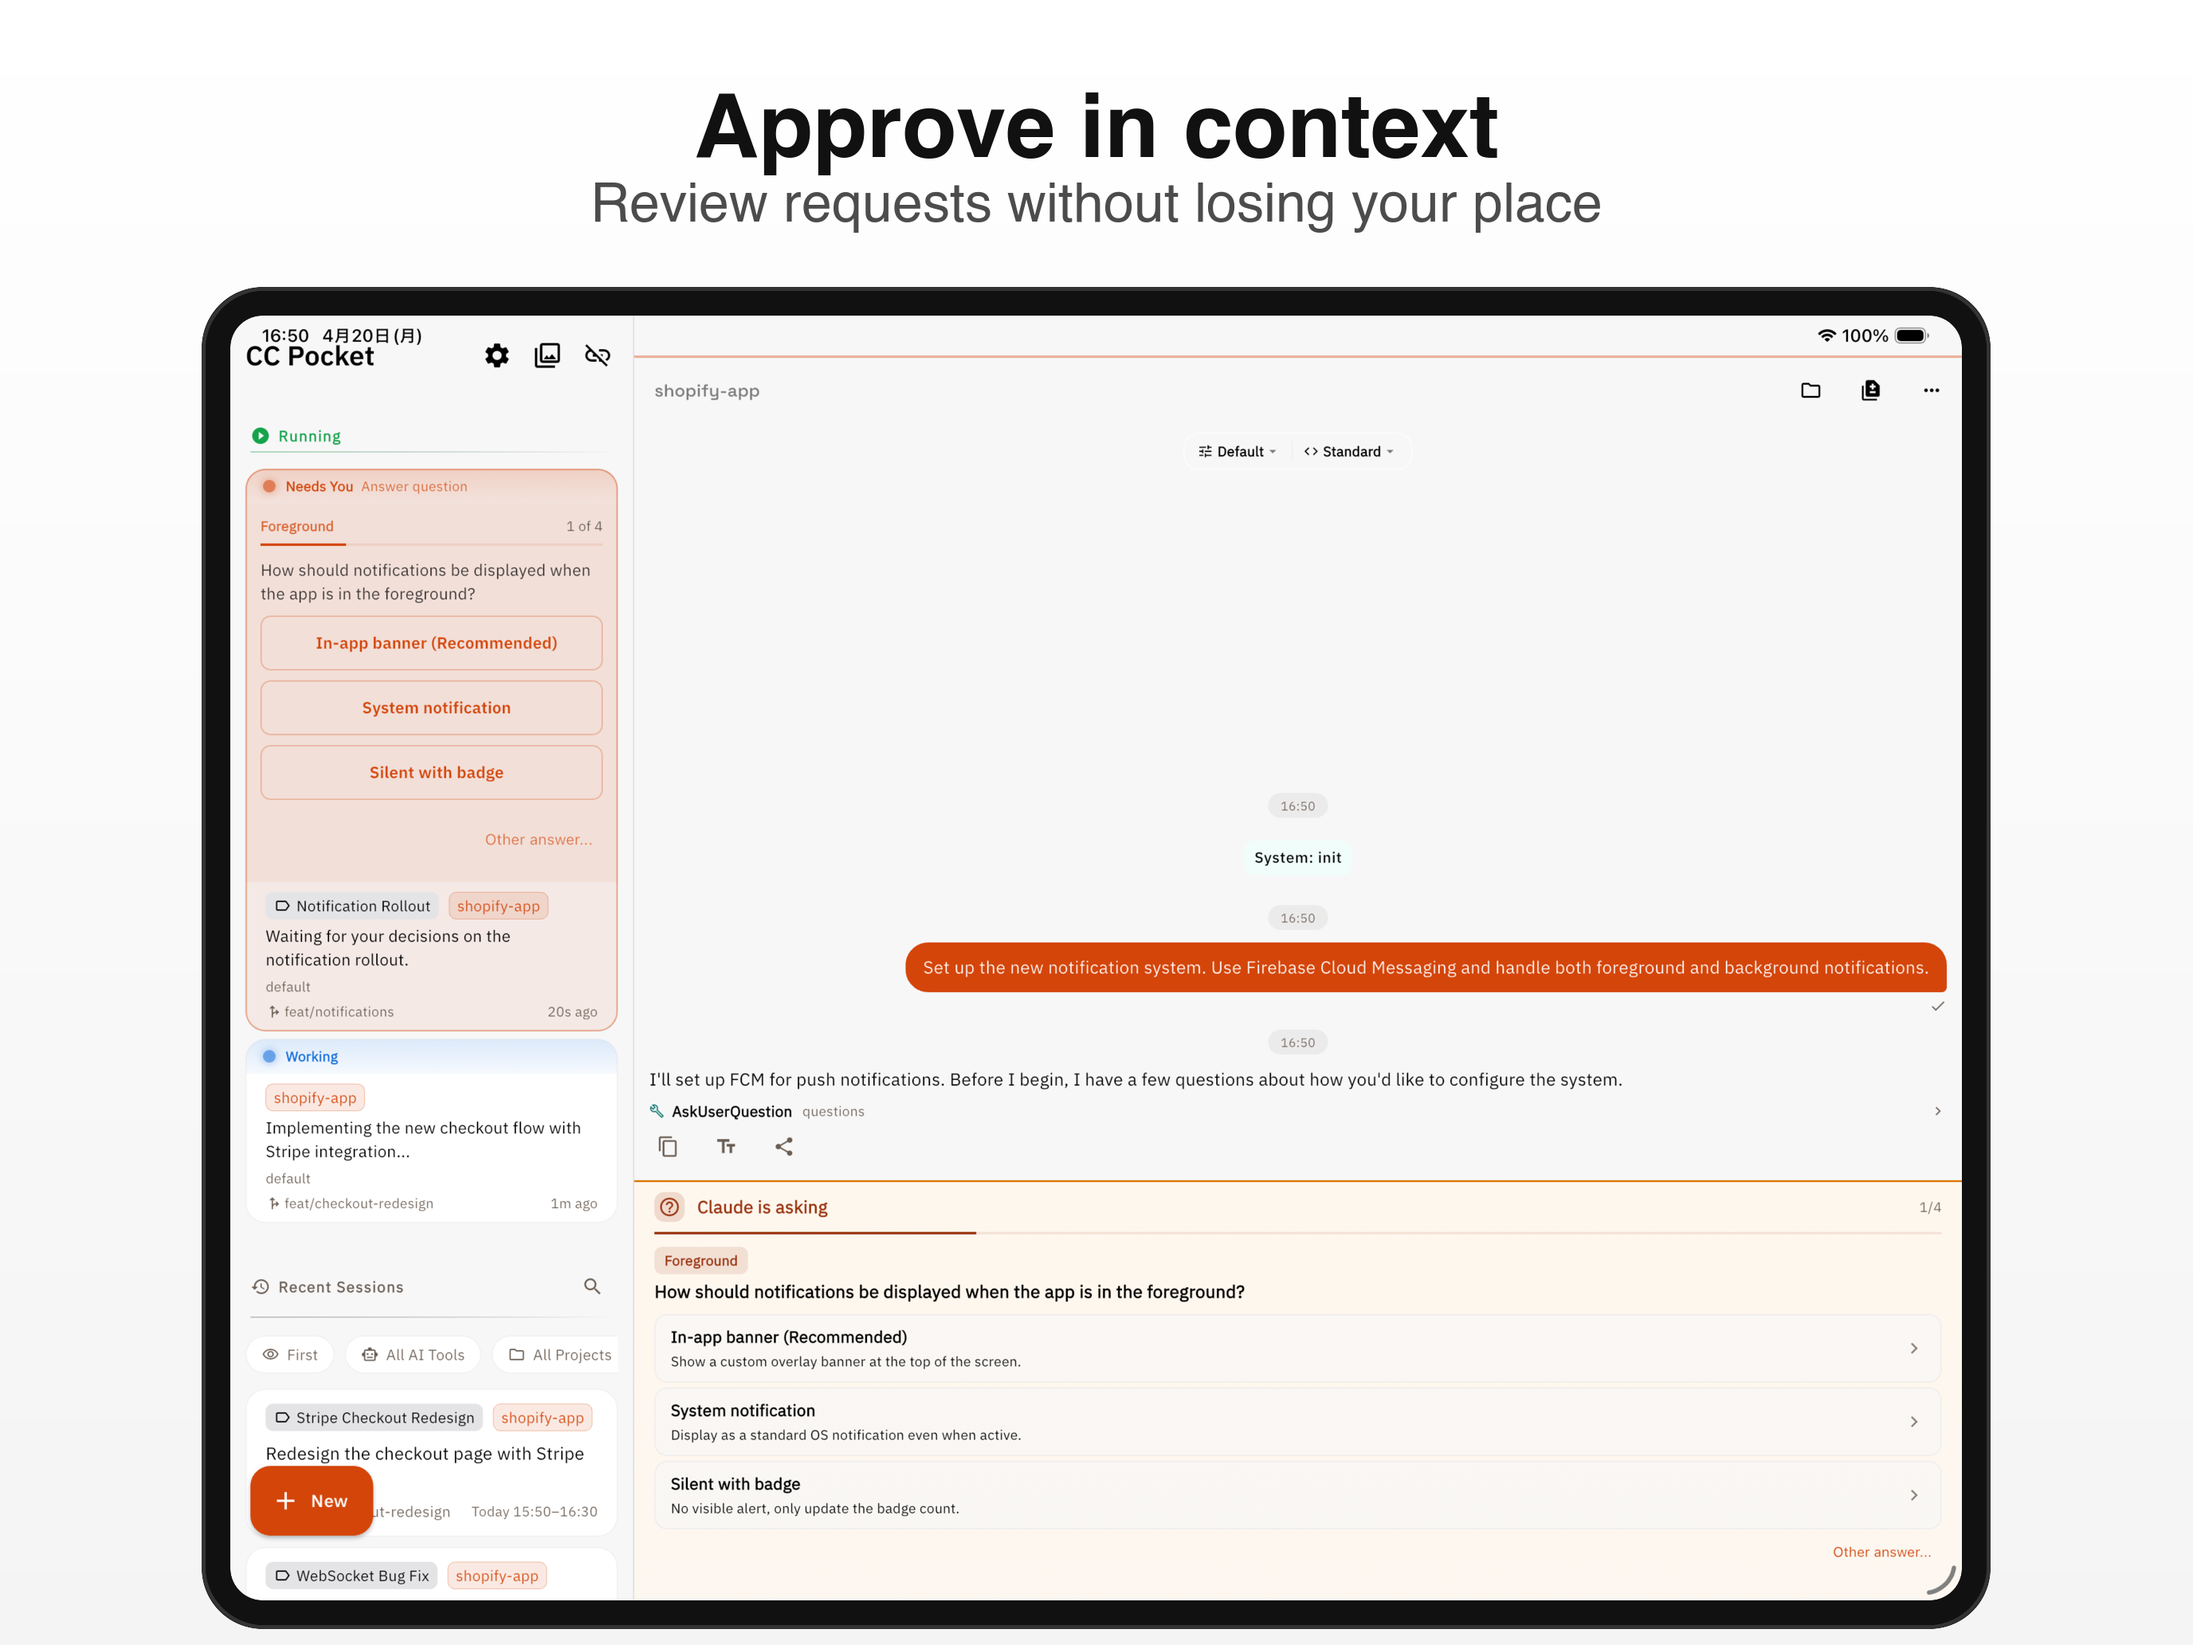
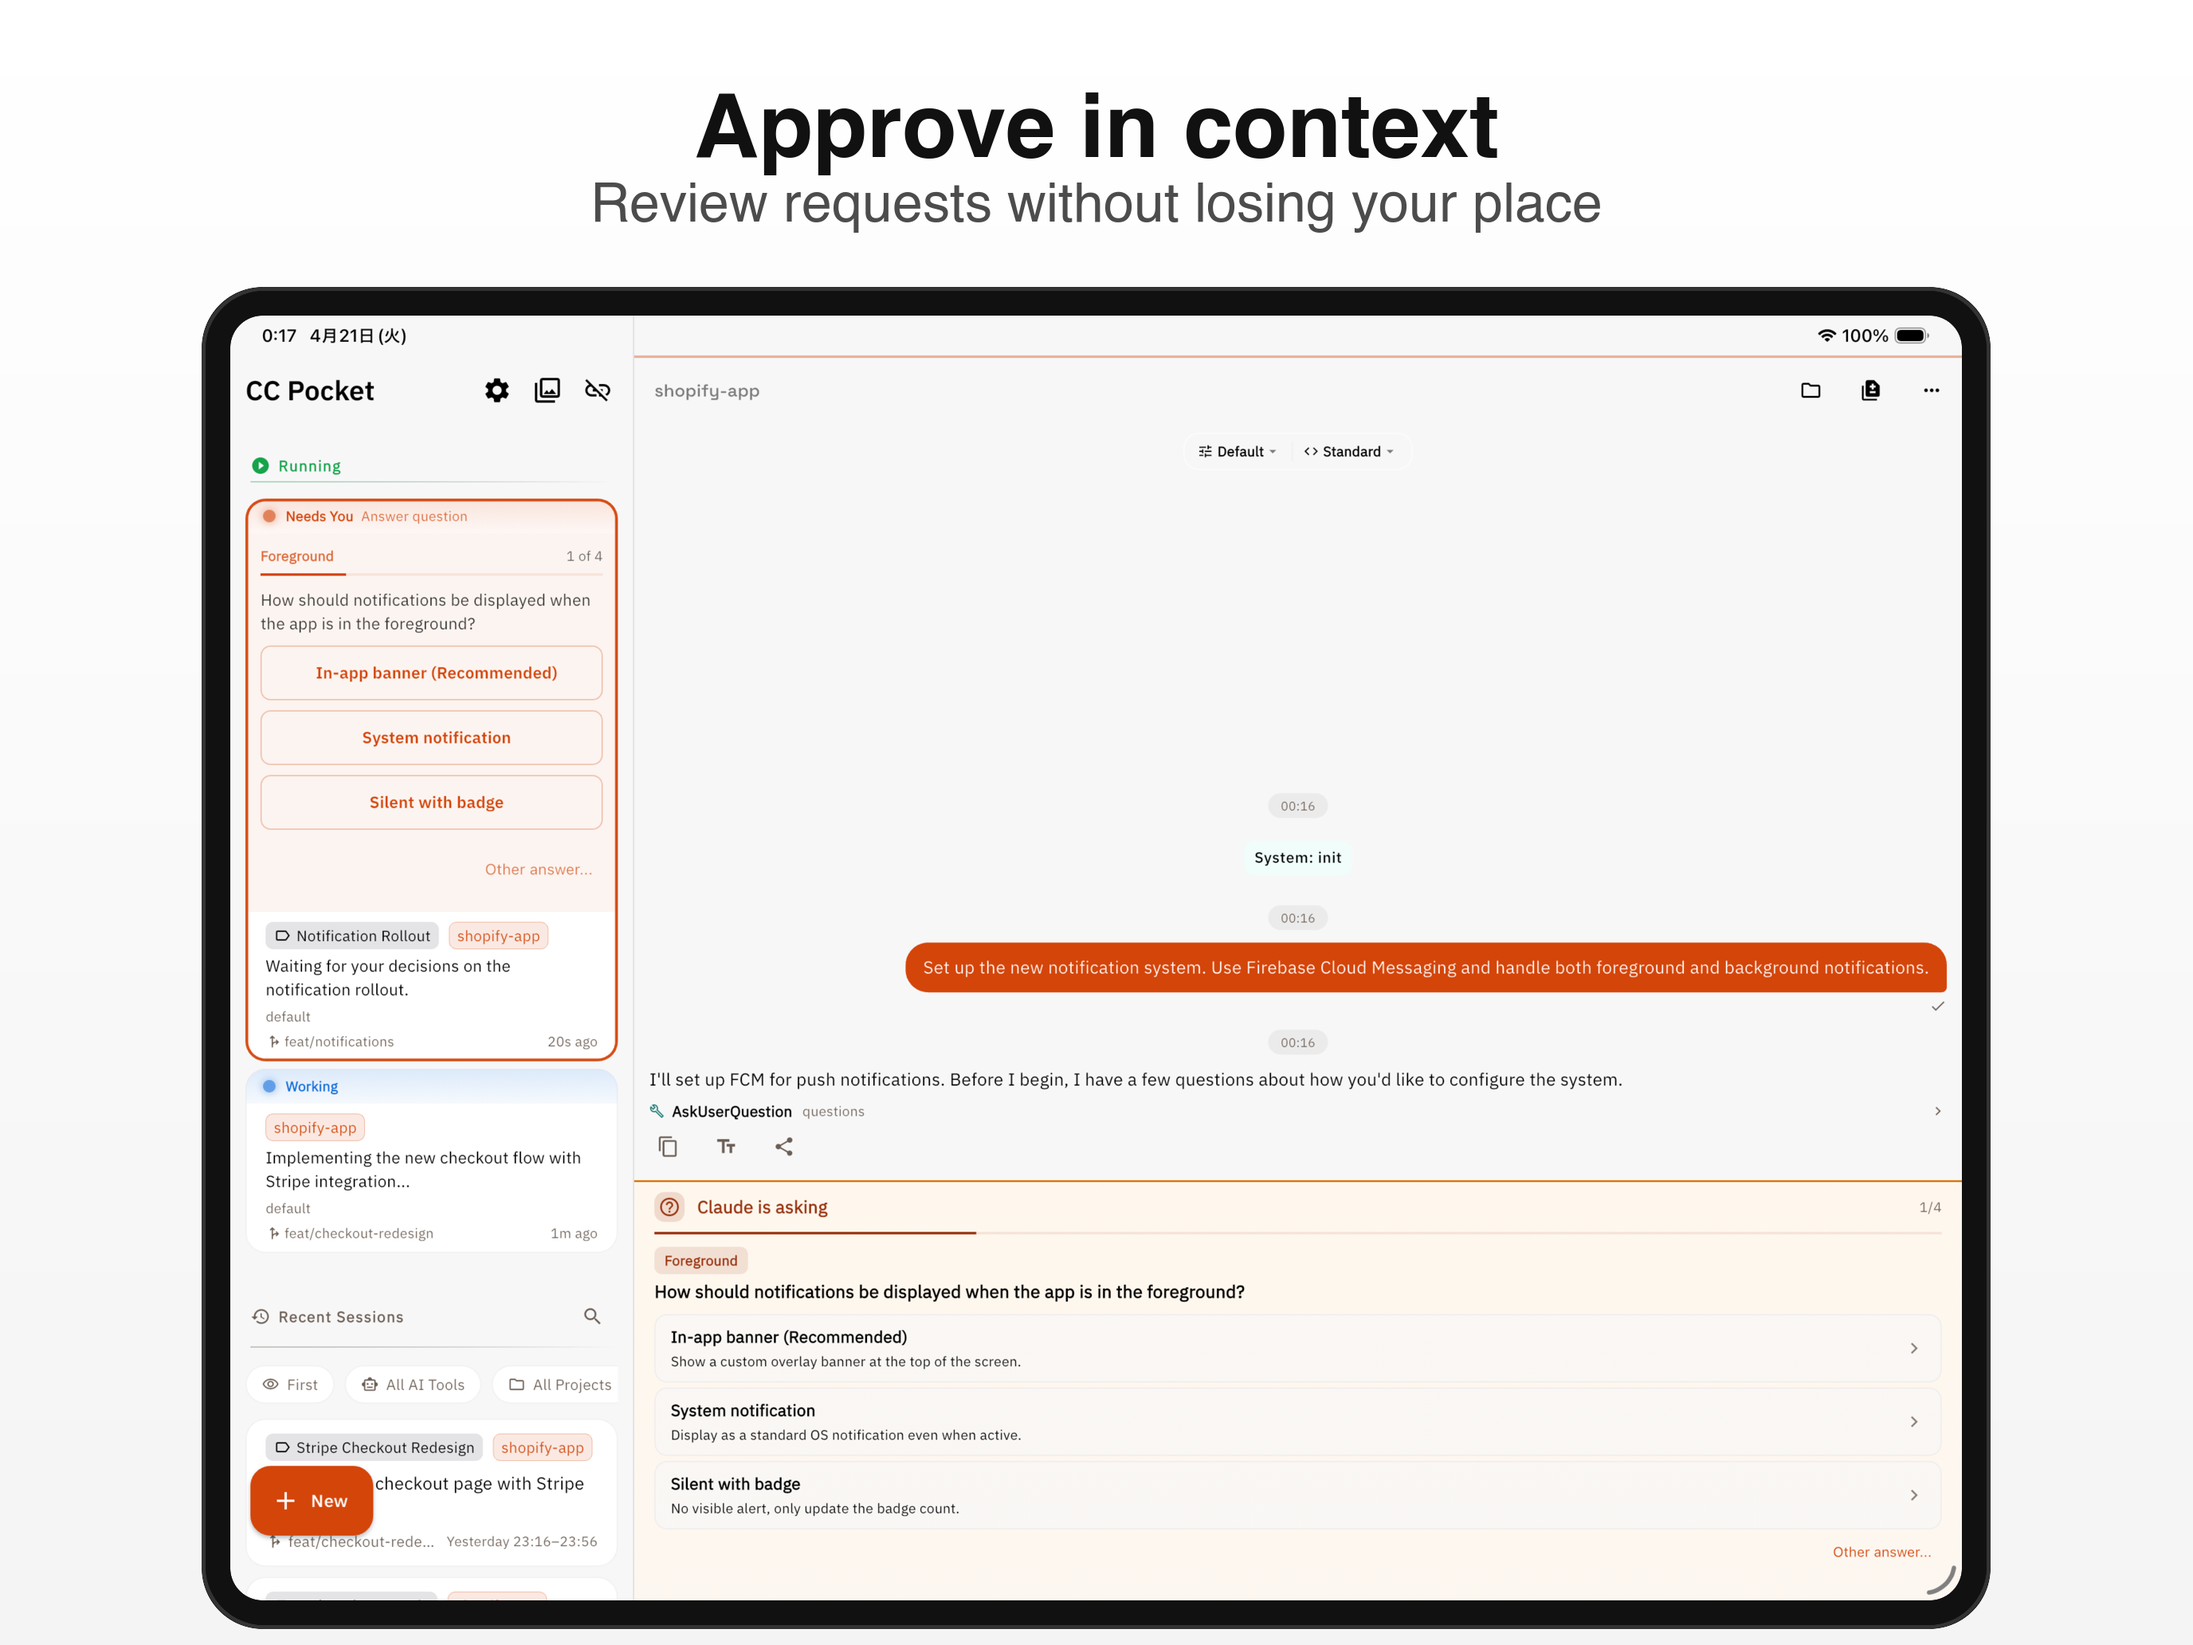
chore(store): refresh ipad screenshots

diff --git a/.claude/skills/update-store/scripts/sim-tap.swift b/.claude/skills/update-store/scripts/sim-tap.swift
@@ -299,6 +299,7 @@ func findElement(named name: String) -> ElementInfo? {
 }
 
 func tap(name: String, quiet: Bool = false) -> Bool {
+    _ = activateSimulator()
     guard let info = findElement(named: name) else {
         if !quiet {
             fputs("Error: Element \"\(name)\" not found.\n", stderr)
@@ -330,6 +331,22 @@ func tap(name: String, quiet: Bool = false) -> Bool {
     usleep(100_000)
     mouseUp?.post(tap: .cghidEventTap)
     print("OK (CGEvent click)")
+    return true
+}
+
+func pressKeyCode(_ keyCode: CGKeyCode, modifiers: CGEventFlags = []) -> Bool {
+    guard activateSimulator() else { return false }
+    guard let keyDown = CGEvent(keyboardEventSource: nil, virtualKey: keyCode, keyDown: true),
+          let keyUp = CGEvent(keyboardEventSource: nil, virtualKey: keyCode, keyDown: false) else {
+        fputs("Error: Failed to create keyboard events.\n", stderr)
+        return false
+    }
+    keyDown.flags = modifiers
+    keyUp.flags = modifiers
+    keyDown.post(tap: .cghidEventTap)
+    usleep(80_000)
+    keyUp.post(tap: .cghidEventTap)
+    usleep(120_000)
     return true
 }
 
@@ -391,6 +408,7 @@ func prepareStorePermissions(bundleId: String = storeScreenshotBundleId) -> Int 
 
 /// Clicks a point in the simulator by mapping iPad/iPhone coordinates to screen coordinates.
 func clickInSimulator(simX: CGFloat, simY: CGFloat, deviceWidth: CGFloat, deviceHeight: CGFloat) -> Bool {
+    guard activateSimulator() else { return false }
     guard let winBounds = findSimulatorWindowBounds() else {
         fputs("Error: Could not find Simulator window.\n", stderr)
         return false
@@ -411,6 +429,17 @@ func clickInSimulator(simX: CGFloat, simY: CGFloat, deviceWidth: CGFloat, device
     usleep(100_000)
     mouseUp.post(tap: .cghidEventTap)
     return true
+}
+
+func deviceMetrics(for device: String) -> (width: CGFloat, height: CGFloat)? {
+    switch device.lowercased() {
+    case "ipad":
+        return (2752, 2064)
+    case "iphone":
+        return (1206, 2622)
+    default:
+        return nil
+    }
 }
 
 /// Dismisses native iOS dialogs by clicking common button positions.
@@ -506,6 +535,89 @@ func dismissIPhoneDialogs() -> Int {
     )
 }
 
+@discardableResult
+func tapAt(device: String, x: CGFloat, y: CGFloat) -> Bool {
+    guard let metrics = deviceMetrics(for: device) else {
+        fputs("Error: Unknown device \"\(device)\". Use 'iphone' or 'ipad'.\n", stderr)
+        return false
+    }
+    let ok = clickInSimulator(
+        simX: x,
+        simY: y,
+        deviceWidth: metrics.width,
+        deviceHeight: metrics.height
+    )
+    if ok {
+        print("Tapped \(device) simulator at (\(Int(x)), \(Int(y)))")
+    }
+    return ok
+}
+
+func dismissSpeechDialog(device: String) -> Bool {
+    let normalized = device.lowercased()
+    guard normalized == "ipad" || normalized == "iphone" else {
+        fputs("Error: Unknown device \"\(device)\". Use 'iphone' or 'ipad'.\n", stderr)
+        return false
+    }
+
+    let dismissLabels = [
+        "許可しない",
+        "Don't Allow",
+        "今はしない",
+        "Not Now",
+        "後で",
+        "Later",
+    ]
+    for label in dismissLabels {
+        if tap(name: label, quiet: true) {
+            print("Dismissed speech dialog via AX label \"\(label)\"")
+            return true
+        }
+    }
+
+    let coordinateCandidates: [(CGFloat, CGFloat)] = switch normalized {
+    case "ipad": [
+        (1120, 1180),
+        (1092, 1180),
+        (980, 1180),
+    ]
+    case "iphone": [
+        (420, 1590),
+        (350, 1590),
+    ]
+    default: []
+    }
+    for (x, y) in coordinateCandidates {
+        if tapAt(device: normalized, x: x, y: y) {
+            Thread.sleep(forTimeInterval: 0.6)
+            print("Dismissed speech dialog via coordinate fallback at (\(Int(x)), \(Int(y)))")
+            return true
+        }
+    }
+
+    let keyboardPlans: [[CGKeyCode]] = [
+        [123, 49],      // left, space
+        [48, 49],       // tab, space
+        [123, 123, 49], // left twice, space
+    ]
+    for plan in keyboardPlans {
+        guard activateSimulator() else { return false }
+        for keyCode in plan {
+            _ = pressKeyCode(keyCode)
+        }
+        Thread.sleep(forTimeInterval: 0.6)
+        for label in dismissLabels {
+            if tap(name: label, quiet: true) {
+                print("Dismissed speech dialog after keyboard fallback")
+                return true
+            }
+        }
+    }
+
+    fputs("Error: Failed to dismiss speech dialog on \(device).\n", stderr)
+    return false
+}
+
 func prepareStoreCapture(device: String) -> Bool {
     switch device.lowercased() {
     case "ipad":
@@ -544,9 +656,12 @@ guard args.count >= 2 else {
       swift \(args[0]) describe                 List all accessible elements
       swift \(args[0]) wait <label> [sec]       Wait for element then tap (default 10s)
       swift \(args[0]) rotate <left|right>      Rotate Simulator via the Device menu
+      swift \(args[0]) tap-at <device> <x> <y>  Tap raw simulator coordinates (iphone|ipad)
       swift \(args[0]) capture-store <device> <path>
                                                Capture a screenshot and normalize orientation
       swift \(args[0]) dismiss-dialogs <device> Dismiss native dialogs (iphone|ipad)
+      swift \(args[0]) dismiss-speech-dialog <device>
+                                               Dismiss the speech/microphone dialog (iphone|ipad)
       swift \(args[0]) prepare-store <device>   Rotate/dismiss dialogs for store capture
 
     """, stderr)
@@ -575,6 +690,16 @@ case "rotate":
         exit(2)
     }
     exit(rotateSimulator(direction: args[2]) ? 0 : 1)
+case "tap-at":
+    guard args.count >= 5 else {
+        fputs("Usage: tap-at <iphone|ipad> <x> <y>\n", stderr)
+        exit(2)
+    }
+    guard let x = Double(args[3]), let y = Double(args[4]) else {
+        fputs("Error: x and y must be numeric.\n", stderr)
+        exit(2)
+    }
+    exit(tapAt(device: args[2], x: CGFloat(x), y: CGFloat(y)) ? 0 : 1)
 case "capture-store":
     guard args.count >= 4 else {
         fputs("Usage: capture-store <iphone|ipad> <path>\n", stderr)
@@ -602,6 +727,12 @@ case "dismiss-dialogs":
     } else {
         print("No dialogs found on \(device)")
     }
+case "dismiss-speech-dialog":
+    guard args.count >= 3 else {
+        fputs("Usage: dismiss-speech-dialog <iphone|ipad>\n", stderr)
+        exit(2)
+    }
+    exit(dismissSpeechDialog(device: args[2]) ? 0 : 1)
 case "prepare-store":
     guard args.count >= 3 else {
         fputs("Usage: prepare-store <iphone|ipad>\n", stderr)

diff --git a/apps/mobile/lib/services/store_screenshot_extension.dart b/apps/mobile/lib/services/store_screenshot_extension.dart
@@ -1124,51 +1124,54 @@ class _StoreWorkspaceListPane extends StatelessWidget {
   Widget build(BuildContext context) {
     return Scaffold(
       backgroundColor: Theme.of(context).colorScheme.surface,
-      body: Column(
-        children: [
-          SessionListPaneHeader(
-            onTitleTap: () {},
-            onOpenSettings: () {},
-            onOpenGallery: () {},
-            onDisconnect: () {},
-            onTogglePaneVisibility: null,
-          ),
-          Expanded(
-            child: HomeContent(
-              connectionState: BridgeConnectionState.connected,
-              sessions: runningSessions,
-              recentSessions: recentSessions,
-              accumulatedProjectPaths: projectPaths,
-              searchQuery: '',
-              isLoadingMore: false,
-              isInitialLoading: false,
-              hasMoreSessions: false,
-              currentProjectFilter: null,
-              onNewSession: () {},
-              onTapRunning:
-                  (
-                    _, {
-                    projectPath,
-                    gitBranch,
-                    worktreePath,
-                    provider,
-                    permissionMode,
-                    sandboxMode,
-                  }) {},
-              onStopSession: (_) {},
-              onResumeSession: (_) {},
-              onLongPressRecentSession: (_) {},
-              onArchiveSession: (_) {},
-              onLongPressRunningSession: (_) {},
-              onSelectProject: (_) {},
-              onLoadMore: () {},
-              providerFilter: ProviderFilter.all,
-              namedOnly: false,
-              onToggleProvider: () {},
-              onToggleNamed: () {},
+      body: SafeArea(
+        bottom: false,
+        child: Column(
+          children: [
+            SessionListPaneHeader(
+              onTitleTap: () {},
+              onOpenSettings: () {},
+              onOpenGallery: () {},
+              onDisconnect: () {},
+              onTogglePaneVisibility: null,
             ),
-          ),
-        ],
+            Expanded(
+              child: HomeContent(
+                connectionState: BridgeConnectionState.connected,
+                sessions: runningSessions,
+                recentSessions: recentSessions,
+                accumulatedProjectPaths: projectPaths,
+                searchQuery: '',
+                isLoadingMore: false,
+                isInitialLoading: false,
+                hasMoreSessions: false,
+                currentProjectFilter: null,
+                onNewSession: () {},
+                onTapRunning:
+                    (
+                      _, {
+                      projectPath,
+                      gitBranch,
+                      worktreePath,
+                      provider,
+                      permissionMode,
+                      sandboxMode,
+                    }) {},
+                onStopSession: (_) {},
+                onResumeSession: (_) {},
+                onLongPressRecentSession: (_) {},
+                onArchiveSession: (_) {},
+                onLongPressRunningSession: (_) {},
+                onSelectProject: (_) {},
+                onLoadMore: () {},
+                providerFilter: ProviderFilter.all,
+                namedOnly: false,
+                onToggleProvider: () {},
+                onToggleNamed: () {},
+              ),
+            ),
+          ],
+        ),
       ),
       floatingActionButtonLocation: FloatingActionButtonLocation.startFloat,
       floatingActionButton: Padding(
